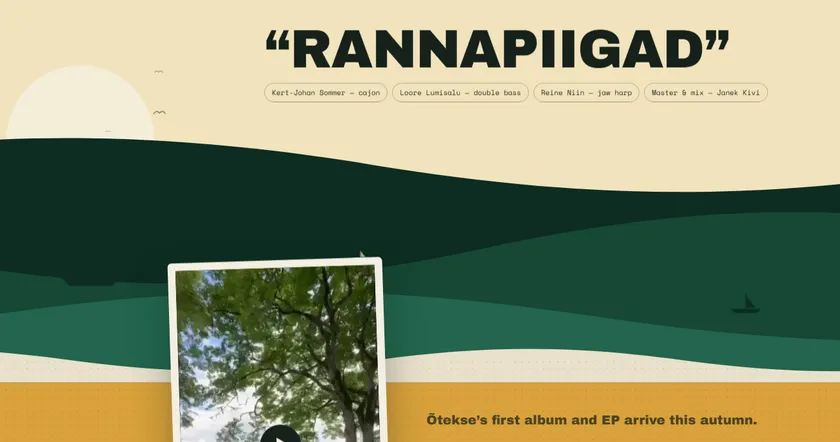
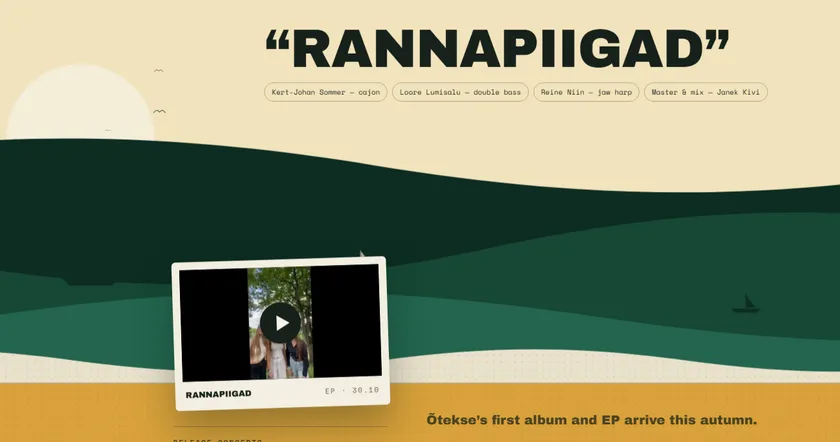
Show the campaign video in one fixed 16:9 frame
The card following each clip's shape (upright vs wide) looked worse than the
black bars, at the owner's call. The frame is now simply 16:9, the file's own
shape, with the whole picture shown: wide clips fill it and the upright clips
keep the bars baked into them. The frame-sampling detection is gone, nothing
around the card moves while it plays, and the poster is a full 16:9 frame of
the video. The header card's stills are retaken to match.

diff --git a/src/components/home/AlbumVideo.tsx b/src/components/home/AlbumVideo.tsx
@@ -1,6 +1,6 @@
 "use client";
 
-import { useEffect, useRef, useState } from "react";
+import { useRef, useState } from "react";
 import { useTranslations } from "next-intl";
 import { IMAGES, VIDEOS } from "@/content/assets";
 import styles from "./AlbumVideo.module.scss";
@@ -10,130 +10,32 @@ import styles from "./AlbumVideo.module.scss";
 // Served from our own server, so playing it contacts no third party: no
 // consent question, and nothing extra for the privacy policy.
 //
-// The file is 16:9 but mixes two kinds of clip: upright phone footage with
-// black bars baked in either side, and genuinely wide landscape shots. No one
-// shape shows both without bars or cropping, so the picture follows the clip.
-// The card keeps an upright 9:16 space — the concerts below never move — and
-// the picture box inside it animates between filling that space (upright
-// clips, drawn with `object-fit: cover`, which crops exactly the baked-in bars
-// away) and a centred 16:9 box on the card's paper (wide clips, shown whole).
+// The frame is 16:9, the file's own shape. The video mixes wide landscape
+// shots, which fill it, with upright phone clips that carry black bars baked
+// in either side, which show as they are. A card that changed shape with each
+// clip was tried and dropped at the owner's call: the card resizing mid-video
+// looked worse than the bars.
 //
-// Which kind is on screen is read from the video itself, not a list of
-// timestamps, so a replacement video keeps working: a few times a second a
-// tiny copy of the current frame is checked for anything lit in its outer
-// bands, where an upright clip is always black. The file is same-origin, which
-// is what lets the canvas read it.
-//
-// Until pressed it shows our poster (a frame of the upright footage) and a
-// play button, with `preload="none"`: loading the page never downloads the
-// ~6 MB file, only pressing play does.
-
-// Frame sampling. 48x27 keeps the check trivially cheap; the outer 30% on each
-// side is well clear of the upright strip, which spans the middle 31.6%.
-const SAMPLE_W = 48;
-const SAMPLE_H = 27;
-const BAND = Math.floor(SAMPLE_W * 0.3);
-/** Summed RGB of a column's brightest pixel above which it counts as picture. */
-const LIT = 60;
-const SAMPLE_MS = 250;
-/** Consecutive agreeing samples before switching, so a crossfade cannot flicker it. */
-const AGREE = 2;
-
+// Until pressed it shows our poster (a frame of the video) and a play button,
+// with `preload="none"`: loading the page never downloads the ~6 MB file, only
+// pressing play does.
 export function AlbumVideo() {
   const t = useTranslations("Album");
   const video = useRef<HTMLVideoElement>(null);
   const [started, setStarted] = useState(false);
-  const [wide, setWide] = useState(false);
-
-  useEffect(() => {
-    const el = video.current;
-    if (!started || !el) return;
-
-    const canvas = document.createElement("canvas");
-    canvas.width = SAMPLE_W;
-    canvas.height = SAMPLE_H;
-    const ctx = canvas.getContext("2d", { willReadFrequently: true });
-    if (!ctx) return;
-
-    let current = false;
-    let pending: boolean | null = null;
-    let streak = 0;
-    let timer = 0;
-
-    const isWideFrame = (): boolean | null => {
-      if (el.readyState < 2) return null;
-      try {
-        ctx.drawImage(el, 0, 0, SAMPLE_W, SAMPLE_H);
-        const d = ctx.getImageData(0, 0, SAMPLE_W, SAMPLE_H).data;
-        for (let x = 0; x < SAMPLE_W; x++) {
-          if (x >= BAND && x < SAMPLE_W - BAND) continue;
-          for (let y = 0; y < SAMPLE_H; y++) {
-            const i = (y * SAMPLE_W + x) * 4;
-            if (d[i] + d[i + 1] + d[i + 2] > LIT) return true;
-          }
-        }
-        return false;
-      } catch {
-        // An unreadable (cross-origin) frame: stay as we are.
-        return null;
-      }
-    };
-
-    const sample = (immediate = false) => {
-      const next = isWideFrame();
-      if (next === null) return;
-      if (next === current) {
-        pending = null;
-        streak = 0;
-        return;
-      }
-      streak = next === pending ? streak + 1 : 1;
-      pending = next;
-      if (immediate || streak >= AGREE) {
-        current = next;
-        pending = null;
-        streak = 0;
-        setWide(next);
-      }
-    };
-
-    const start = () => {
-      window.clearInterval(timer);
-      timer = window.setInterval(() => sample(), SAMPLE_MS);
-    };
-    const stop = () => window.clearInterval(timer);
-    // After a seek the new frame is simply the truth: no need to wait for agreement.
-    const onSeeked = () => sample(true);
-
-    el.addEventListener("play", start);
-    el.addEventListener("pause", stop);
-    el.addEventListener("ended", stop);
-    el.addEventListener("seeked", onSeeked);
-    if (!el.paused) start();
-
-    return () => {
-      stop();
-      el.removeEventListener("play", start);
-      el.removeEventListener("pause", stop);
-      el.removeEventListener("ended", stop);
-      el.removeEventListener("seeked", onSeeked);
-    };
-  }, [started]);
 
   return (
-    <div className={styles.frame} data-wide={wide ? "" : undefined}>
-      <div className={styles.screen}>
-        <video
-          ref={video}
-          className={styles.video}
-          src={VIDEOS.hooandja}
-          poster={IMAGES.albumVideoPoster}
-          preload="none"
-          playsInline
-          controls={started}
-          aria-label={t("videoTitle")}
-        />
-      </div>
+    <div className={styles.frame}>
+      <video
+        ref={video}
+        className={styles.video}
+        src={VIDEOS.hooandja}
+        poster={IMAGES.albumVideoPoster}
+        preload="none"
+        playsInline
+        controls={started}
+        aria-label={t("videoTitle")}
+      />
       {!started && (
         <button
           type="button"

diff --git a/src/components/home/AlbumVideo.module.scss b/src/components/home/AlbumVideo.module.scss
@@ -1,52 +1,21 @@
 @use "../../styles/mixins" as *;
 
-// The card's upright 9:16 space. It never changes size, so nothing around it
-// moves; only the picture box inside does (see AlbumVideo).
+// 16:9, the video file's own shape: wide clips fill it, and the upright clips
+// show the black bars baked into them (see AlbumVideo).
 .frame {
   position: relative;
-  aspect-ratio: 9 / 16;
+  aspect-ratio: 16 / 9;
   overflow: hidden;
   background: var(--color-ink);
-  transition: background-color var(--duration-album-card) var(--ease-standard);
-
-  // Wide clips sit on the card's paper, not on black.
-  &[data-wide] {
-    background: var(--color-cream);
-  }
 }
 
-// The picture box. Upright clips fill the frame; wide clips get a centred box
-// of their own 16:9 shape. In a 9:16 frame a full-width 16:9 box is
-// (9/16) / (16/9) = 81/256 = 31.64% of the height, centred at 34.18% from the top.
-.screen {
-  position: absolute;
-  left: 0;
-  right: 0;
-  top: 0;
-  height: 100%;
-  overflow: hidden;
-  transition:
-    top var(--duration-album-card) var(--ease-standard),
-    height var(--duration-album-card) var(--ease-standard);
-
-  [data-wide] > & {
-    top: 34.18%;
-    height: 31.64%;
-  }
-
-  @include reduced-motion {
-    transition: none;
-  }
-}
-
-// `cover` does the cropping: in the upright box it trims exactly the bars baked
-// into an upright clip; in the 16:9 box the shapes match and nothing is cut.
 .video {
+  position: absolute;
+  inset: 0;
   display: block;
   width: 100%;
   height: 100%;
-  object-fit: cover;
-  object-position: center;
+  object-fit: contain;
 }
 
 // Covers the poster until the first press; after that the native controls

diff --git a/src/content/assets.ts b/src/content/assets.ts
@@ -16,8 +16,7 @@ export const IMAGES = {
   girlsCutout: "/images/girls-cutout.webp" as string | null,
   /**
    * Poster for the Hooandja campaign video in the album section, shown until a
-   * visitor presses play (AlbumVideo): a frame of the footage, cropped to its
-   * upright picture.
+   * visitor presses play (AlbumVideo): a 16:9 frame of the video itself.
    */
   albumVideoPoster: "/images/album/video-poster.webp",
   /**
@@ -59,8 +58,7 @@ export function timelinePhoto(id: string) {
 /**
  * Self-hosted video, served straight from public/videos/. The file is already
  * a web encode (H.264/AAC, 960x540, ~6 MB), so it has no build step. Replace it
- * with another web-ready MP4 of the same framing: 16:9 with the upright footage
- * centred, which AlbumVideo crops to 9:16.
+ * with another web-ready 16:9 MP4; AlbumVideo shows it whole.
  */
 export const VIDEOS = {
   /** The Hooandja campaign video for "Rannapiigad", in the album section. */
